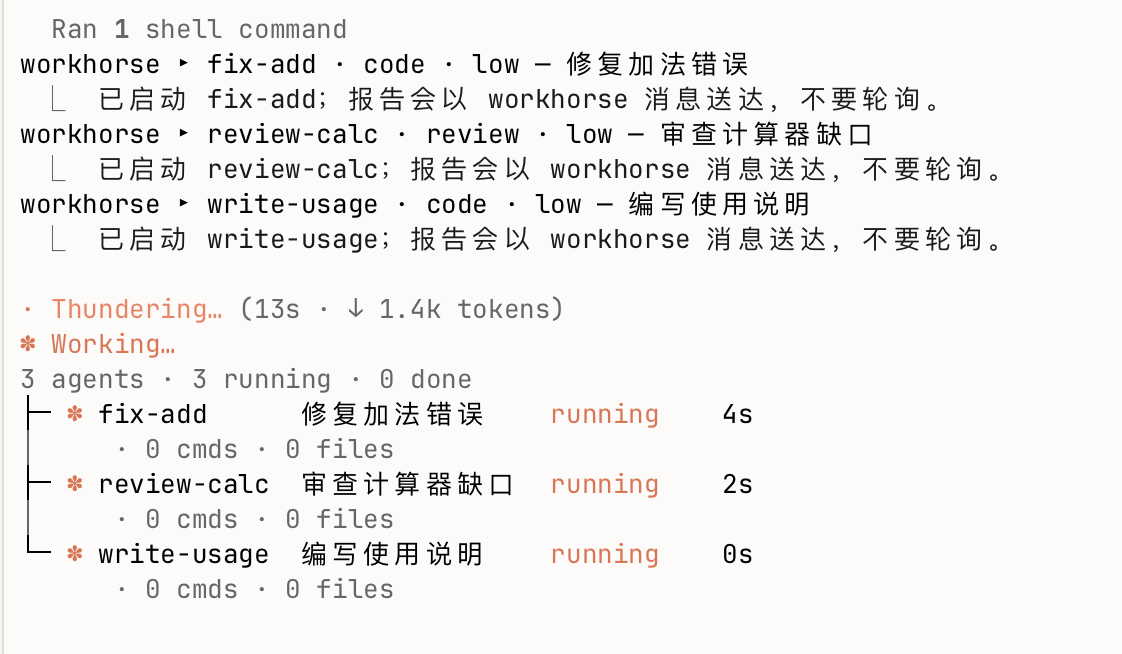
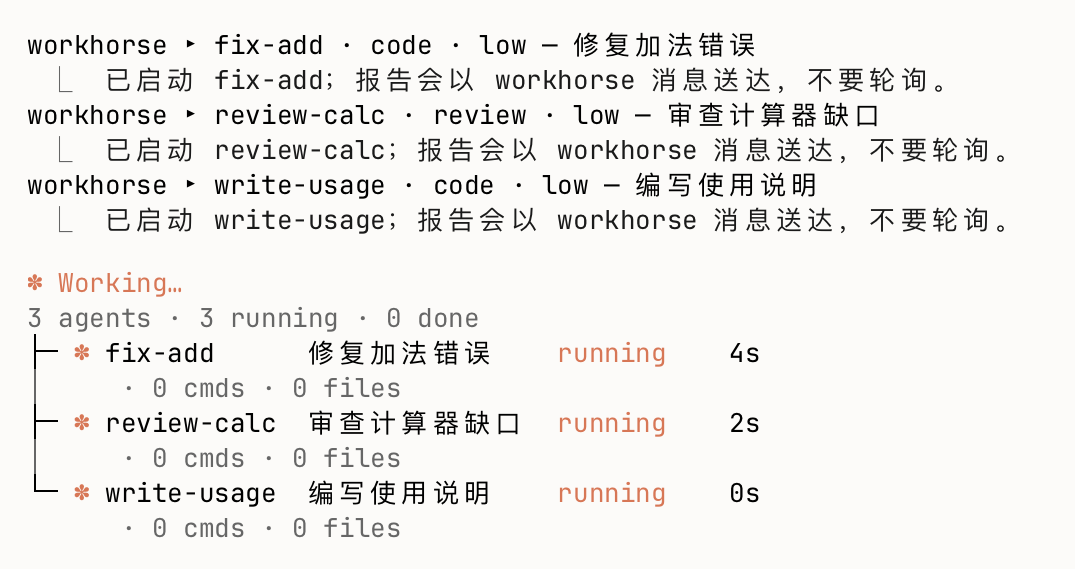
README: tighter demo screenshot, full-width with caption

diff --git a/README.md b/README.md
@@ -4,7 +4,9 @@
 
 `workhorse` 是一个 Claude Code 插件，用于将编码实现、代码审查和运维操作以子代理方式委托给后台的 Codex 处理。Claude 负责撰写四段式 brief 并把关 diff 与验收，Codex 在后台异步执行，任务完成后将报告送回会话，避免轮询与等待。
 
-<p align="center"><img src="docs/demo.png" alt="三个 workhorse 任务并行运行：工具调用行显示任务名、模式、强度和中文说明，提示框上方的面板实时显示每个任务的状态和耗时" width="720"></p>
+![三个 workhorse 任务并行运行](docs/demo.png)
+
+<sub>三个任务并行：每次派发显示任务名、模式、推理强度和中文说明；提示框上方的面板实时刷新每个任务的状态和耗时。</sub>
 
 # 仓库内容
 
